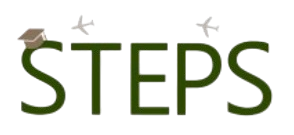
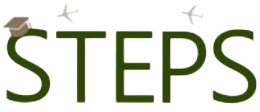
steps is updated

diff --git a/index.html b/index.html
@@ -291,28 +291,28 @@
                 <ol class="olcards" style="font-family: Roboto, sans-serif;">
                     <li class="list-item" style="--cardColor: #7b57b2">
                         <div class="content">
-                            <div class="title" style="font-family: Lora, serif;">Personalized Mentorship
+                            <div class="title" style="font-family: Lora, serif;"><h5>Personalized Mentorship</h5>
                             </div>
-                            <div class="text">Gain insights from our co-founders, Abdul Aleem and Rafia Khatoon, with mentorship tailored to your needs
+                            <div class="text"> <p>Gain insights from our co-founders, Abdul Aleem and Rafia Khatoon, with mentorship tailored to your needs</p>
                             </div>
                         </div>
                     </li>
                     <li class="list-item" style="--cardColor:#7b57b2">
                         <div class="content">
-                            <div class="title" style="font-family: Lora, serif;">Tailored Coaching</div>
-                            <div class="text">Benefit from expert coaching that fine-tunes your application and showcases your strengths</div>
+                            <div class="title" style="font-family: Lora, serif;"><h5>Tailored Coaching</h5></div>
+                            <div class="text"><p>Benefit from expert coaching that fine-tunes your application and showcases your strengths</p></div>
                         </div>
                     </li>
                     <li class="list-item" style="--cardColor:#7b57b2">
                         <div class="content">
-                            <div class="title" style="font-family: Lora, serif;">Workshops and Training </div>
-                            <div class="text">Join engaging workshops designed to simplify the application process for top US and European universities</div>
+                            <div class="title" style="font-family: Lora, serif;"><h5>Workshops and Training</h5></div>
+                            <div class="text"><p>Join engaging workshops designed to simplify the application process for top US and European universities</p></div>
                         </div>
                     </li>
                     <li class="list-item" style="--cardColor:#7b57b2">
                         <div class="content">
-                            <div class="title" style="font-family: Lora, serif;">Inclusive Community</div>
-                            <div class="text">Connect with a community that values and celebrates your background, helping students to reach their full potential                            </div>
+                            <div class="title" style="font-family: Lora, serif;"><h5>Inclusive Community</h5></div>
+                            <div class="text"><p>Connect with a community that values and celebrates your background, helping students to reach their full potential</p>                            </div>
                         </div>
                     </li>
                 </ol>

diff --git a/css/style.css b/css/style.css
@@ -211,8 +211,8 @@ a:focus {
 
 .navbar-brand img {
   margin-right: 5px;
-  width: 55px;
-  height: 35px;
+  width: 100px;
+  height: 50px;
 }
 
 .navbar-brand span {
@@ -417,8 +417,8 @@ a:focus {
 .heading {
   text-align: justify; /* Center the heading */
   margin: 0; /* Reset default margins */
-  padding-bottom: 20px; /* Space between heading and typewriter */
-  transform: translate(5%, -90%);
+  padding-bottom: 0px; /* Space between heading and typewriter */
+  /* transform: translate(5%, -90%); */ /*commented to stop the position of STEPS */
 }
 
 .heading h1 {
@@ -458,13 +458,15 @@ a:focus {
 
 /* Typewriter effect styles remain the same */
 .typewriter {
-  display: inline-block;
+  /* display: inline-block; */
   white-space: nowrap;
   overflow: hidden;
-  position: absolute;
-  top: 40%; /* Adjusted to fit below the heading */
+  /* position: absolute; */
+  text-align: center;
+  margin-bottom: 15px;
+  /* top: 40%; Adjusted to fit below the heading
   left: 50%;
-  transform: translate(-45%, -195%);
+  transform: translate(-45%, -195%); */
 }
 
 .typewriter p {
@@ -474,29 +476,32 @@ a:focus {
   font-weight: bold;
   font-family: "Lora", serif;
   margin: 0 auto;
-  letter-spacing: .15em;
-  text-align: justify;
+  letter-spacing: .25em;
+  /* text-align: justify; */
   
 }
 
 .typewriter1 {
-  display: inline-block;
+  /* display: inline-block; */
   white-space: nowrap;
   overflow: hidden;
-  position: absolute;
-  top: 40%; /* Adjusted to fit below the heading */
+  text-align: center;
+  margin-bottom: 30px;
+  /* position: absolute; */
+  /* top: 40%; Adjusted to fit below the heading
   left: 50%;
-  transform: translate(-44.5%, 10%);
+  transform: translate(-44.5%, 10%); */
 }
 
 .register {
-  display: inline-block;
+  /* display: inline-block; */
   white-space: nowrap;
   overflow: hidden;
-  position: absolute;
+  text-align: center;
+  /* position: absolute;
   top: 105%; 
   left: 17.5%;
-  transform: translate(-45%, -195%);
+  transform: translate(-45%, -195%); */
 }
 
 .register button { 
@@ -514,7 +519,7 @@ a:focus {
   font-family: "Lora", serif;
   margin: 0 auto;
   letter-spacing: .15em;
-  text-align: justify;
+  /* text-align: justify; */
   
 }
 
@@ -659,7 +664,7 @@ a:focus {
   font-family: "Lora", serif;
   /* text-transform: uppercase; */
   font-weight: Bold; 
-  letter-spacing: 5px;
+  /* letter-spacing: 5px; */
 }
 
 

diff --git a/css/responsive.css b/css/responsive.css
@@ -86,7 +86,7 @@
   .slider_section .detail_box {
     text-align: center; 
     align-items: center;
-    display: flex;
+    /* display: flex; */
     justify-content: center;
   }
 
@@ -97,6 +97,12 @@
   .slider_section .second {
     max-width: 40%;
   } 
+  .slider_section .detail_box a {
+    
+    padding: 10px 25px;
+    font-size: 17px;
+  
+  }
 
   .slider_section .text-box-container {
     flex-wrap: wrap; /* Allow wrapping on smaller screens */
@@ -339,6 +345,25 @@
   .about_section .img_container .img-box.b2 {
     width: 55%;
   }
+
+  .list-item h5{ 
+    font-size: 15px;
+  }
+  .list-item p{ 
+
+    font-size: 12px;
+}
+
+.tl-content h1{ 
+
+  font-size: 15px;
+}
+
+.tl-content p{ 
+  font-size: 12px;
+}
+
+  
 
   .info_section .info_form form {
     flex-direction: column;
@@ -602,12 +627,12 @@
   .db{ 
     flex: 0 0 100%;
     max-width: 100%;
-    margin-top: 10%;
+    /* margin-top: 10%; */
   }
 
   .heading h1{ 
     font-size: 85px;
-    margin-right: 2rem;
+    margin-right: -1rem;
   }
 
   .typewriter{ 
@@ -643,10 +668,18 @@
     height:70vh;
   }
 
+  .slider_section .detail_box a {
+    
+    padding: 5px 20px;
+    font-size: 15px;
+  
+  }
+
+
   .db{ 
     flex: 0 0 100%;
     max-width: 100%;
-    margin-top: 20%;
+    /* margin-top: 20%; */
   }
 
   .heading h1{ 
@@ -687,7 +720,7 @@
 @media(max-width: 430px){
 
   .db{ 
-    margin-top: 10%;
+    /* margin-top: 10%; */
   }
 
   .heading h1{ 
@@ -696,7 +729,7 @@
   }
 
   .slider_section .detail_box .typewriter p {
-    font-size: 9.5px;
+    font-size: 9px;
     text-align: center;
     
   }

diff --git a/js/index.js b/js/index.js
@@ -232,7 +232,7 @@ document.getElementById('contactForm').addEventListener('submit', async (event) 
     const message = document.getElementById('message').value;
 
     try {
-        const response = await fetch('http://localhost:5000/api/contact', {
+        const response = await fetch('https://backend-steps-1.onrender.com/api/contact', {
             method: 'POST',
             headers: {
                 'Content-Type': 'application/json'
